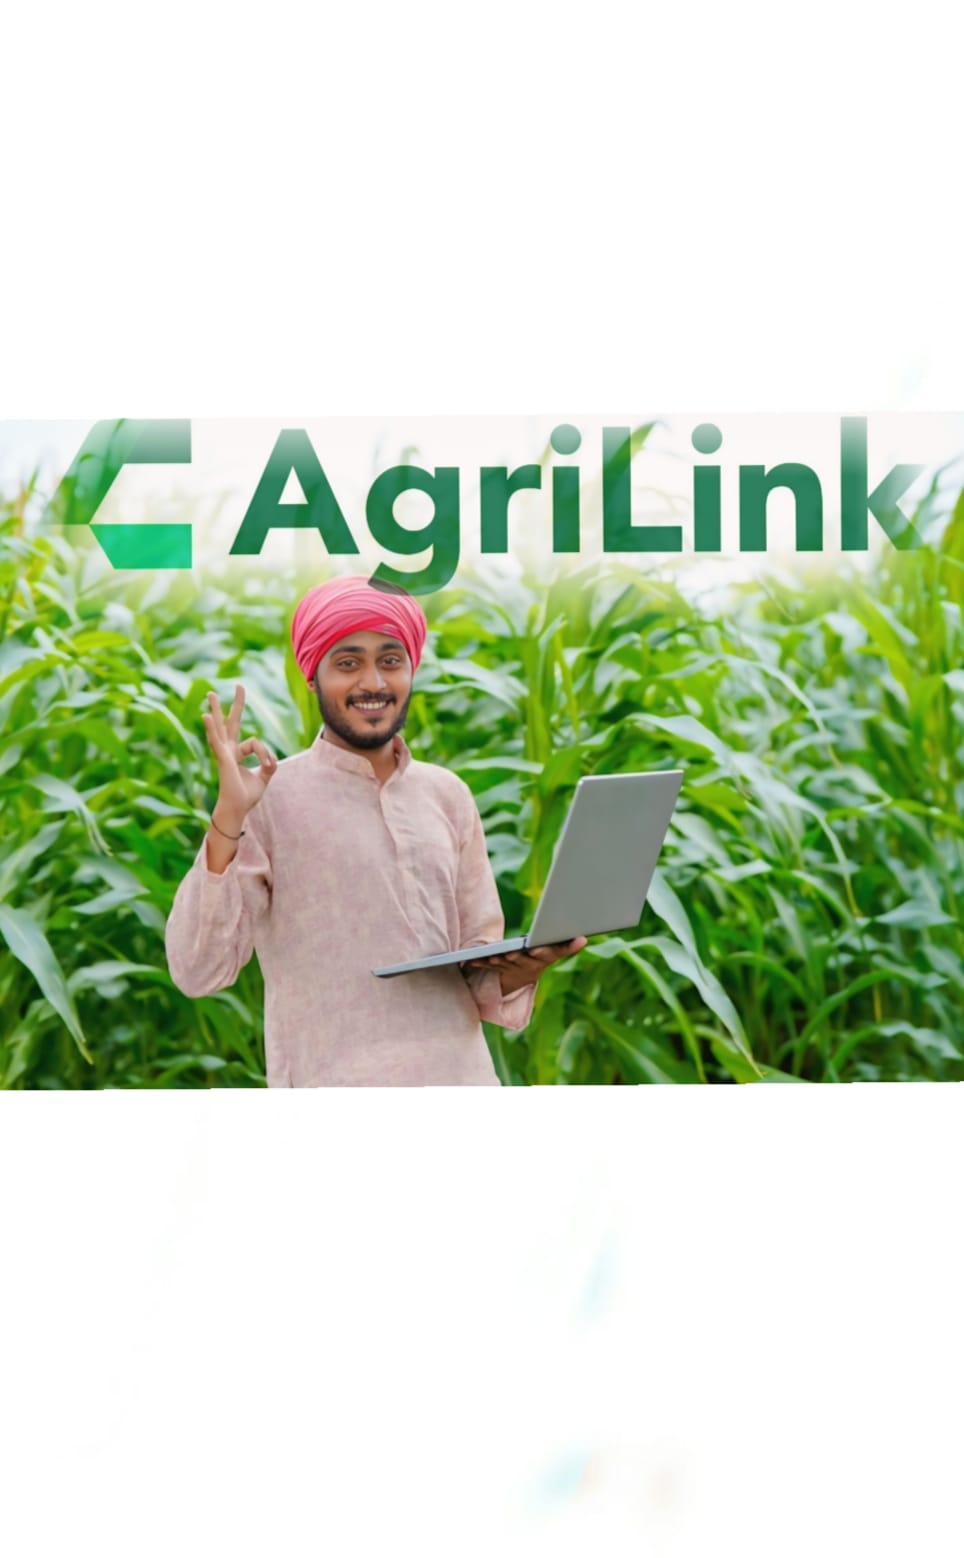
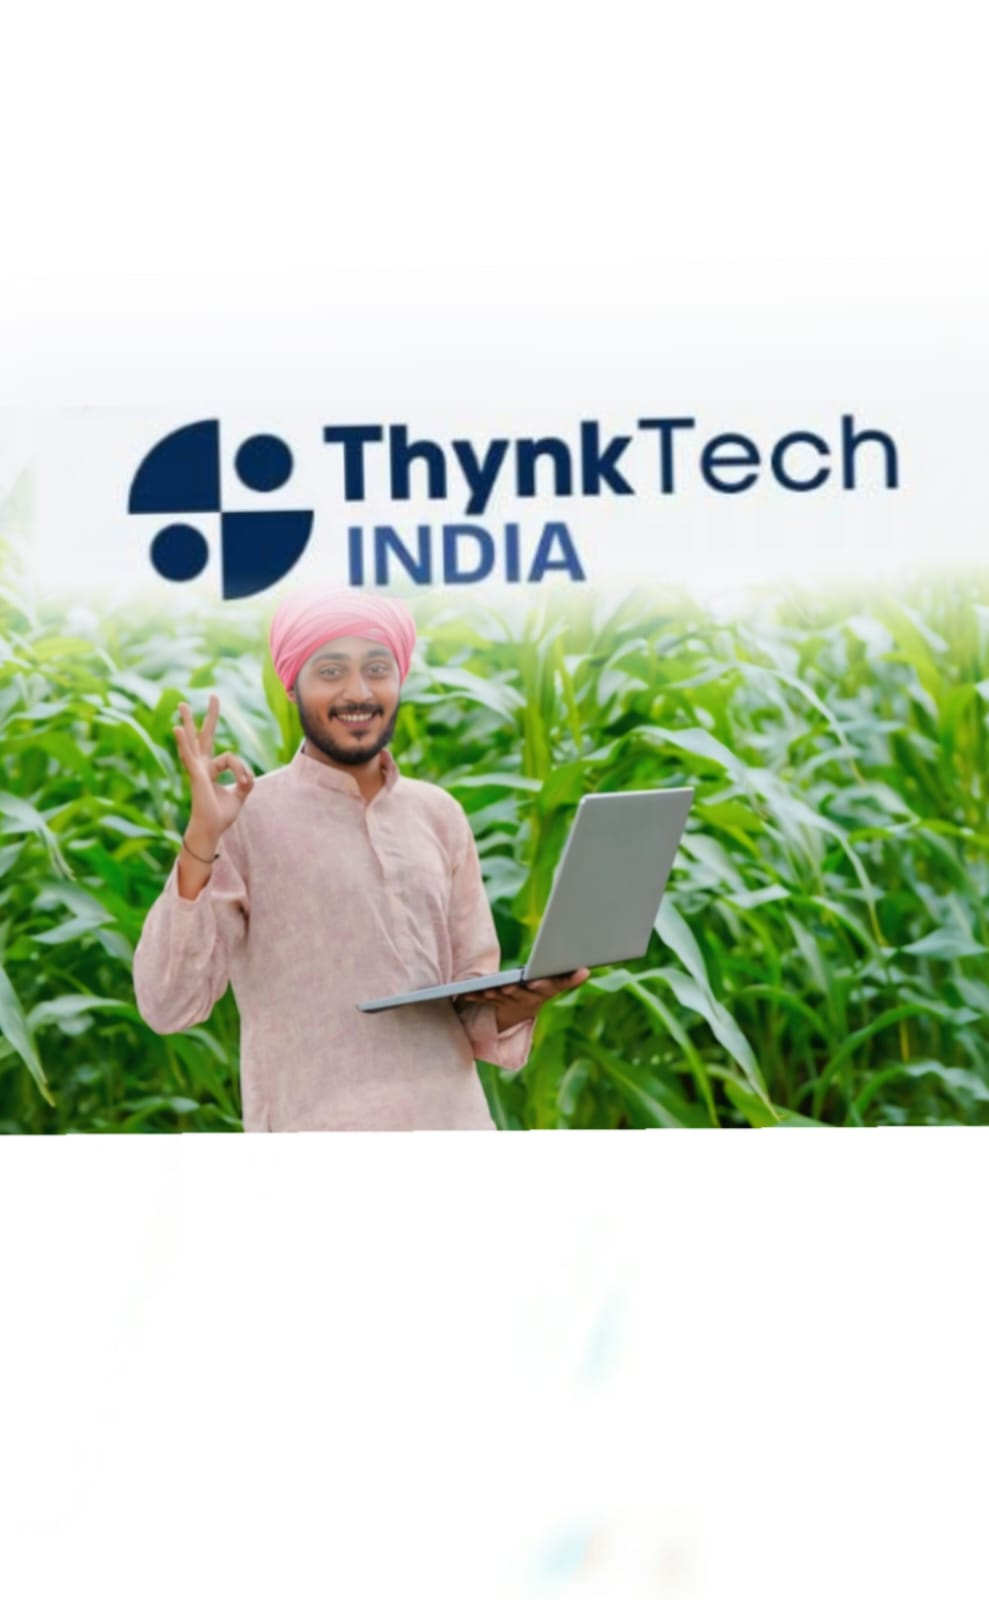
add to cart and buy all functionalities implemented

Changed region(s): [[0.0, 0.2465, 1.0, 0.7086], [0.5602, 0.9551, 0.5913, 0.9859]]

diff --git a/frontend/src/components/Layout/Topbar.jsx b/frontend/src/components/Layout/Topbar.jsx
@@ -19,7 +19,7 @@ const Topbar = () => {
                 </a>
             </div>
             <div className='text-sm text-center flex-grow'>
-                <span>Bridging Farmers & Consumers – Quality, Freshness, Fairness!</span>
+                <span>A Product by ThynkTech – Quality, Freshness, Fairness!</span>
             </div>
             <div className='text-sm hidden md:block'>
                 <a href="tel:+1234567890" className='hover:text-gray-300'>

diff --git a/frontend/src/components/Products/FeaturesSection.jsx b/frontend/src/components/Products/FeaturesSection.jsx
@@ -11,7 +11,7 @@ const FeaturesSection = () => {
   return (
     <section className="py-16 px-4 bg-white">
       <div className="text-center mb-10">
-        <h2 className="text-2xl font-semibold">Why choose AgriLink?</h2>
+        <h2 className="text-2xl font-semibold">Why choose QuickCart?</h2>
       </div>
 
       <div className="container mx-auto grid grid-cols-1 sm:grid-cols-2 md:grid-cols-4 gap-6 text-center">

diff --git a/frontend/src/pages/Register.jsx b/frontend/src/pages/Register.jsx
@@ -1,6 +1,6 @@
 import React, { useState, useEffect } from 'react'
 import { Link, useLocation, useNavigate } from 'react-router-dom';
-import register from "../assets/registerfinal.jpg";
+import register from "../assets/loginlast.jpg";
 import { registerUser } from '../redux/slices/authSlice';
 import { useDispatch, useSelector } from 'react-redux';
 import { mergeCart } from '../redux/slices/cartSlice';

diff --git a/frontend/src/components/Common/Navbar.jsx b/frontend/src/components/Common/Navbar.jsx
@@ -52,7 +52,7 @@ const Navbar = () => {
         {/* Left - Logo */}
         <div>
           <Link to="/" className='text-2xl font-medium'>
-            AgriLink
+            QuickCart
           </Link>
         </div>
 
